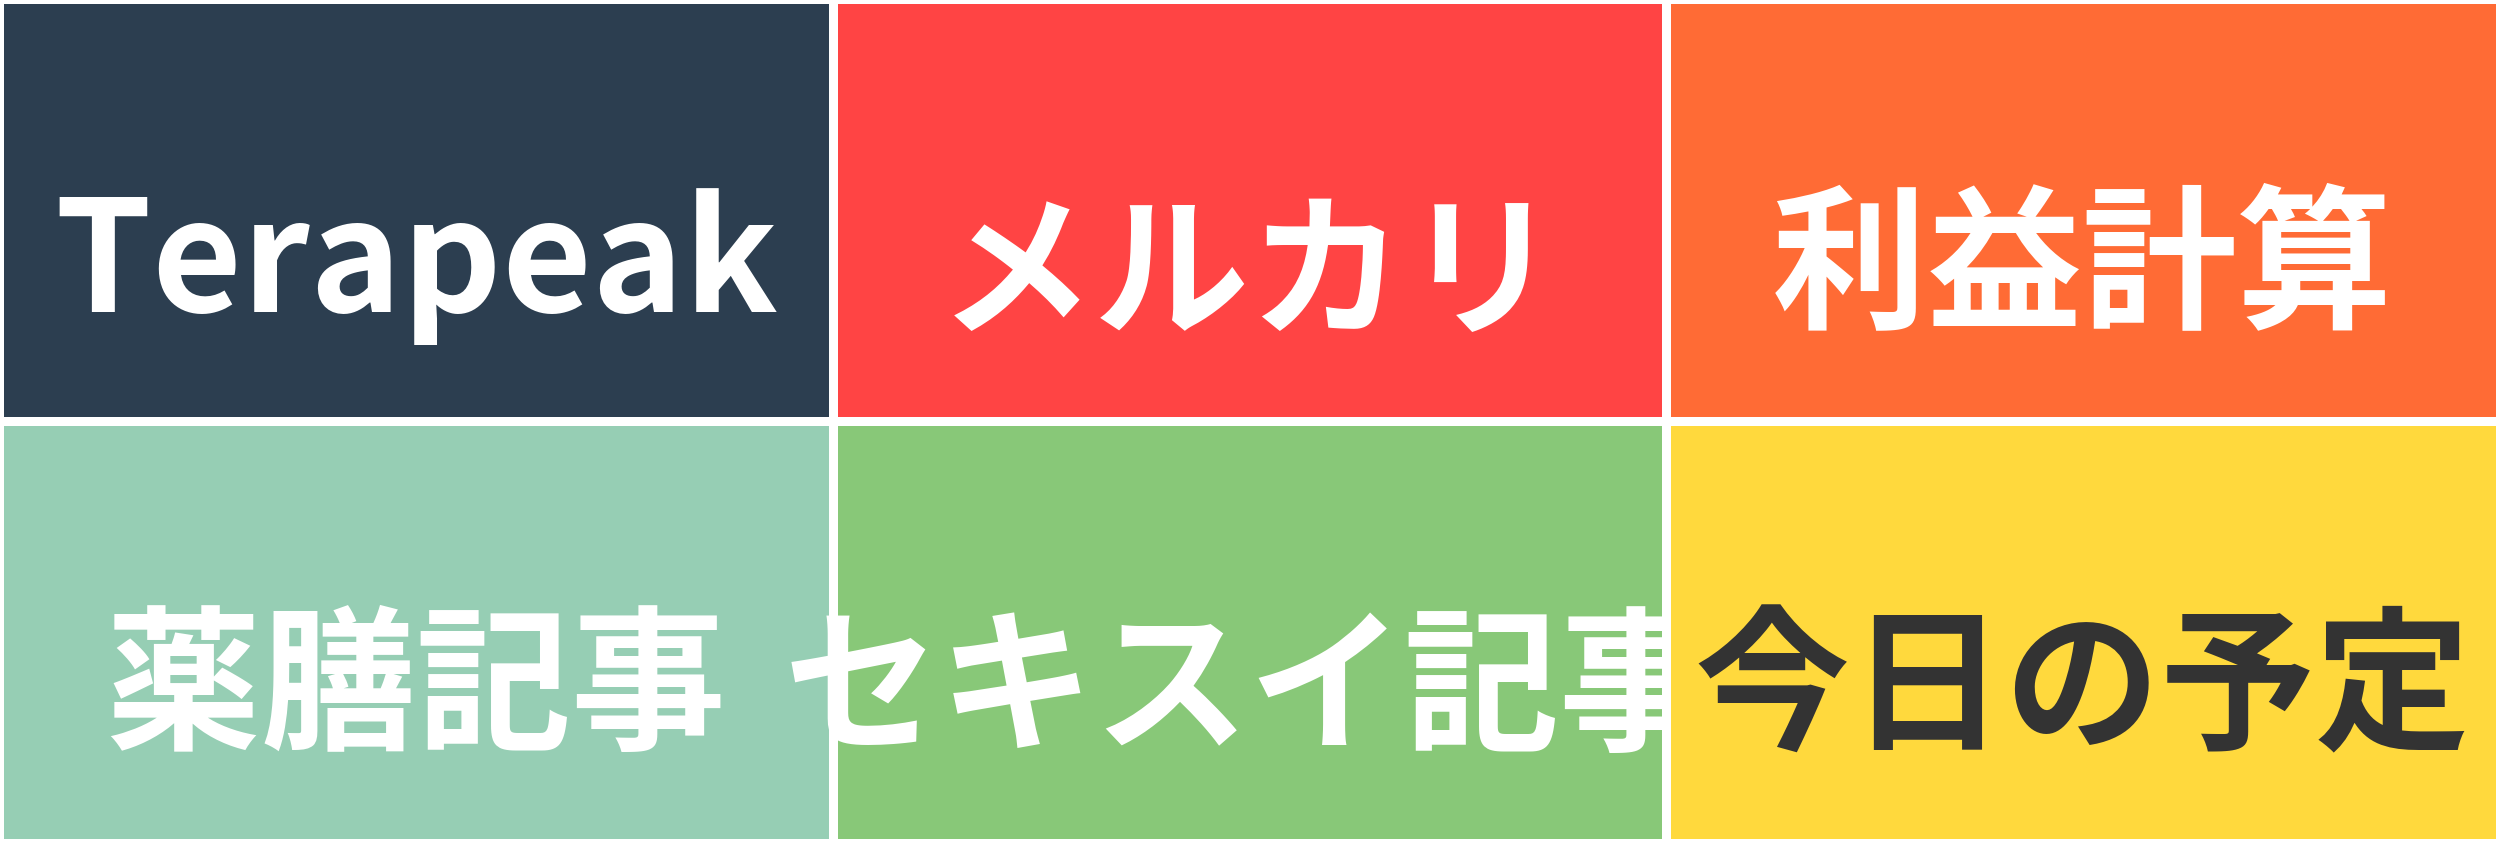
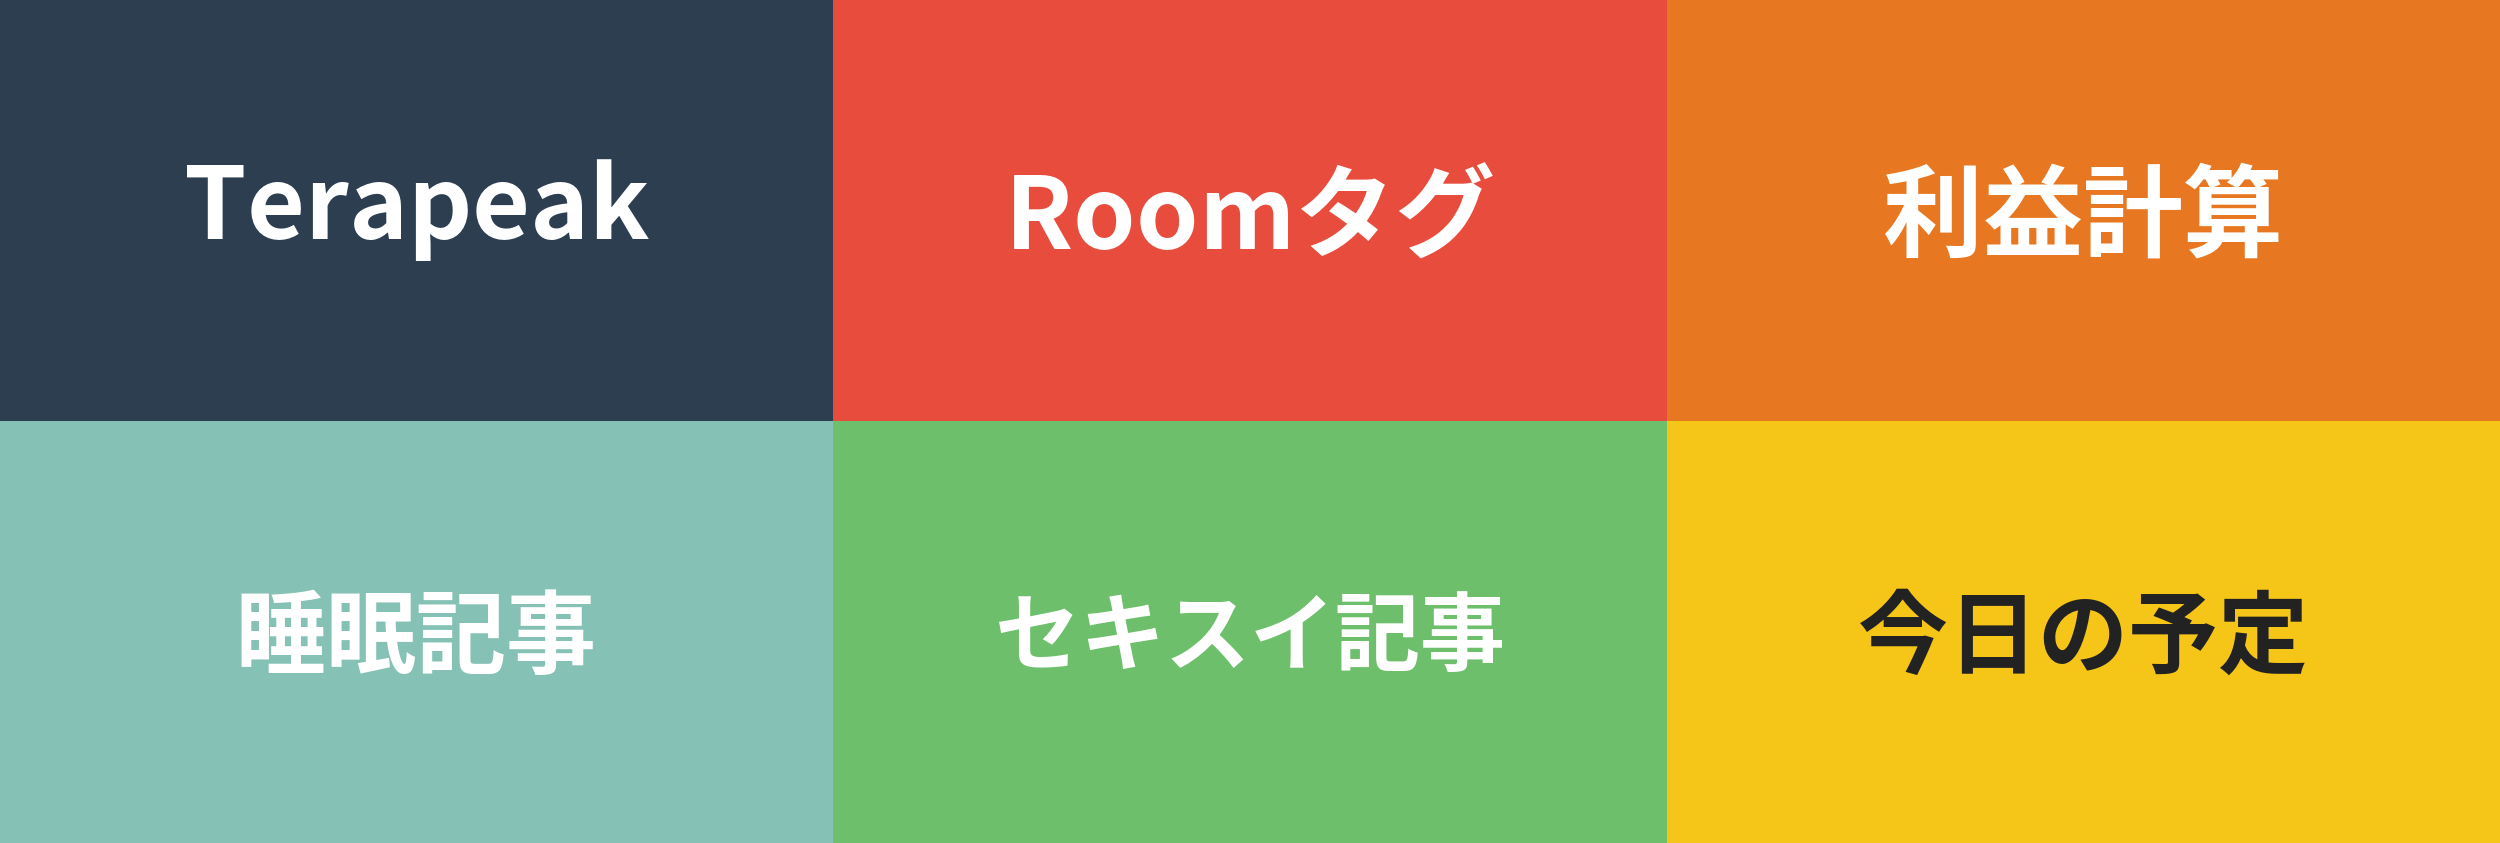
秘書部：リッチメニュー更新（メルカリ→Roomタグ・薬膳記事→睡眠記事）

diff --git a/main.py b/main.py
@@ -1666,7 +1666,7 @@ def setup_rich_menu():
             {"bounds": {"x": 0,    "y": 0,   "width": 833, "height": 421},
              "action": {"type": "uri", "uri": "https://www.ebay.com/sh/research"}},
             {"bounds": {"x": 833,  "y": 0,   "width": 834, "height": 421},
-             "action": {"type": "uri", "uri": "https://jp.mercari.com"}},
+             "action": {"type": "message", "text": "roomタグ"}},
             {"bounds": {"x": 1667, "y": 0,   "width": 833, "height": 421},
              "action": {"type": "uri", "uri": "https://maki-hisho.onrender.com/ebay-calc"}},
             {"bounds": {"x": 0,    "y": 421, "width": 833, "height": 422},